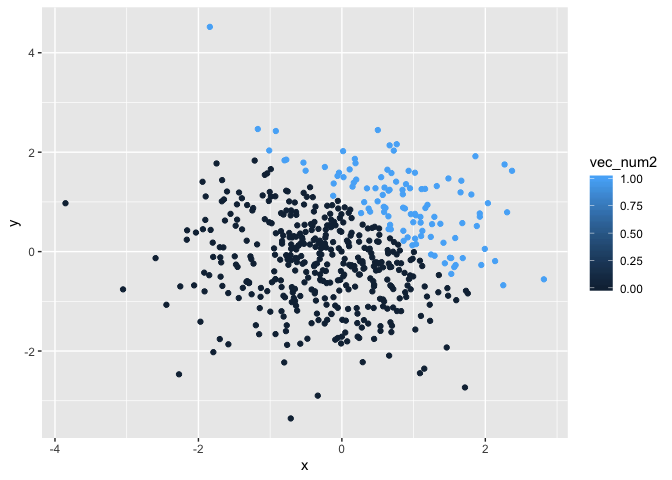
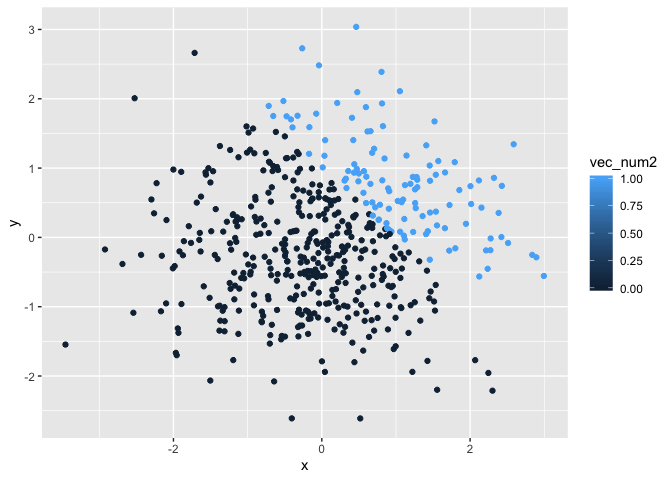
Use pull() instead of $

diff --git a/p8105_hw1_yw3438.md b/p8105_hw1_yw3438.md
@@ -29,10 +29,10 @@ lapply(problem1_df, mean)
     ## returning NA
 
     ## $ran_sample
-    ## [1] 0.08622322
+    ## [1] -0.2685852
     ## 
     ## $gr_th_0_logical
-    ## [1] 0.5
+    ## [1] 0.25
     ## 
     ## $vec_character
     ## [1] NA
@@ -52,21 +52,21 @@ Here’s the second code chunk for problem
 
 ``` r
 ##convert the logical vector to numeric, and multiply the random sample by the result##
-gr_th_0_num = as.numeric(problem1_df$gr_th_0_logical)
-(gr_th_0_num)*(problem1_df$ran_sample)
+gr_th_0_num = as.numeric(pull(problem1_df, gr_th_0_logical))
+(gr_th_0_num)*(pull(problem1_df, ran_sample))
 ```
 
-    ## [1] 0.8977427 0.4021629 0.4198242 1.5136212 0.0000000 0.0000000 0.0000000
+    ## [1] 0.2648384 0.0000000 0.9246587 0.0000000 0.0000000 0.0000000 0.0000000
     ## [8] 0.0000000
 
 ``` r
 ##convert the logical vector to a factor, and multiply the random sample by the result##
-gr_th_0_fac = as.factor(problem1_df$gr_th_0_logical)
-gr_th_0_fac_pro = (gr_th_0_fac)*(problem1_df$ran_sample)
+gr_th_0_fac = as.factor(pull(problem1_df, gr_th_0_logical))
+gr_th_0_fac_pro = (gr_th_0_fac)*(pull(problem1_df, ran_sample))
 ```
 
-    ## Warning in Ops.factor((gr_th_0_fac), (problem1_df$ran_sample)): '*' not
-    ## meaningful for factors
+    ## Warning in Ops.factor((gr_th_0_fac), (pull(problem1_df, ran_sample))): '*'
+    ## not meaningful for factors
 
 ``` r
 gr_th_0_fac_pro
@@ -78,12 +78,13 @@ gr_th_0_fac_pro
 #the random sample cannot be mutiplied as it's factor. 
 
 ##convert the logical vector to a factor and then convert the result to numeric, and multiply the random sample by the result##
-gr_th_0_fac_num = as.numeric(as.factor(problem1_df$gr_th_0_logical))
-(gr_th_0_fac_num)*(problem1_df$ran_sample)
+gr_th_0_fac_num = as.numeric(as.factor
+                             (pull(problem1_df, gr_th_0_logical)))
+(gr_th_0_fac_num)*(pull(problem1_df, ran_sample))
 ```
 
-    ## [1]  1.79548543  0.80432572  0.83964848  3.02724242 -0.73012433 -1.27925354
-    ## [7] -0.05206047 -0.48212691
+    ## [1]  0.52967677 -0.25810927  1.84931741 -0.99374646 -0.01497113 -0.14372761
+    ## [7] -1.57717983 -0.35044449
 
 # Problem 2
 
@@ -101,11 +102,11 @@ The size of this dataset can be described by its columns and rows. The
 number of the columns is 5 and the number of the rows of the dataset is
 500.
 
-The mean of x is -0.0673782, the median of x is -0.0562743 and the
-standard deviation of x is 0.9834672.
+The mean of x is 0.0215927, the median of x is 0.0773137 and the
+standard deviation of x is 1.0458719.
 
 The proportion of cases for which x + y \> 1 is
-0.216
+0.256
 
 ## The Scatterplot of x and y
 
